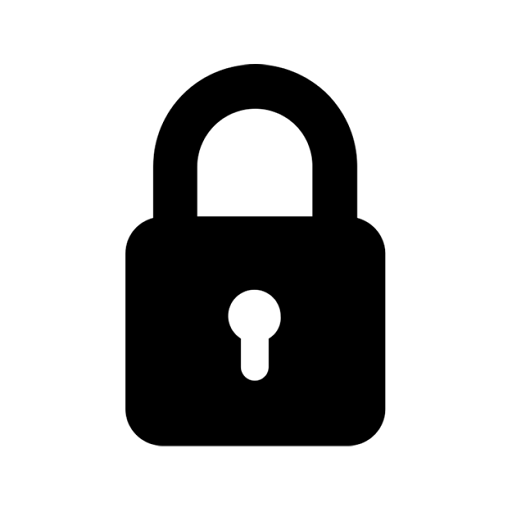
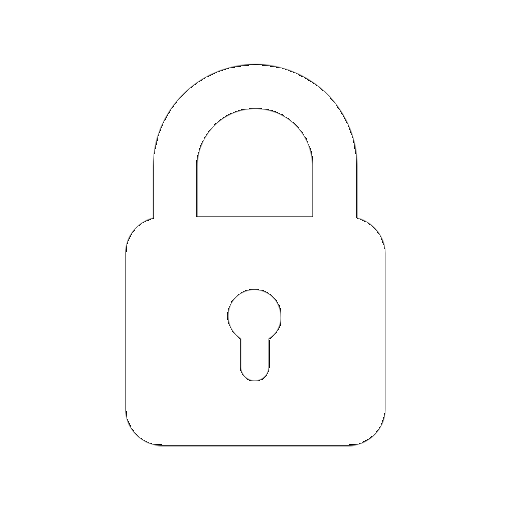
cambiado el color de las imagenes

Changed region(s): [[0.2188, 0.125, 0.75, 0.875]]

diff --git a/css/main.css b/css/main.css
@@ -12,10 +12,11 @@
 }
 
 .header_candado {
-    height: 30px;
-    width: 33px;
+    height: 25px;
+    width: 28px;
     float: right;
     padding-right: 50px;
+    margin-top:5px;
 }
 
 .header_2 {
@@ -32,8 +33,8 @@
 }
 
 #menu {
-    margin-top: -50px;;
-    margin-left: 350px;
+    margin-top: -95px;
+    margin-left: 450px;
 }
 
 #menu ul {
@@ -47,7 +48,7 @@
 }
 
 #menu ul li a {
-    color: black;
+    color: white;
     text-decoration: none;
     padding: 10px;
 }
